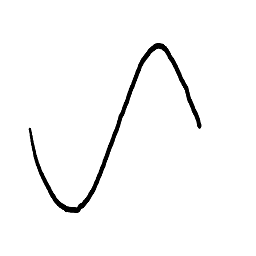
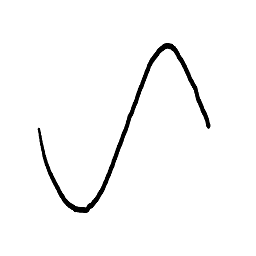
input plot

Changed region(s): [[0.0938, 0.1562, 0.8438, 0.8438]]

diff --git a/index.html b/index.html
@@ -1,3 +1,4 @@
+<!-- LEARNING CONTROL SYSTEMS ENGINEERING WITH INTERACTIVE VISUALIZATION. -->
 <!DOCTYPE html>
 <html lang="en">
 <head>
@@ -5,17 +6,23 @@
     <meta http-equiv="X-UA-Compatible" content="IE=edge">
     <meta name="viewport" content="width=device-width, initial-scale=1.0">
     <title>Regelungstechnik</title>
+    <!-- Import Google Fonts (Roboto). -->
     <link rel="preconnect" href="https://fonts.gstatic.com">
     <link href="https://fonts.googleapis.com/css2?family=Roboto:ital,wght@0,300;0,400;0,700;1,300;1,400;1,700&display=swap" rel="stylesheet">
-    <link rel="stylesheet" href="css/styles.css">
+    <!-- Import our css-stylesheets. -->
+    <link rel="stylesheet" href="css/basic_styles.css">
+    <link rel="stylesheet" href="css/control_loop_styles.css">
 </head>
 
+<!-- Create an SVG-drawing-area for the control loop arrows. -->
 <svg class="background_svg_draw_area" xmlns="http://www.w3.org/2000/svg">
+    <!-- Define an arrow head for the control loop arrows. -->
     <defs>
         <marker id="arrowhead" markerWidth="10" markerHeight="7" refX="0" refY="3.5" orient="auto">
             <polygon points="0 0, 10 3.5, 0 7" />
         </marker>
     </defs>
+    <!-- Create the line elements. They paths will be defined using javascript. -->
     <line id="line_input_to_controller"></line>
     <line id="line_controller_to_system"></line>
     <line id="line_system_to_output"></line>
@@ -25,20 +32,28 @@
 
 <body>
     <h1>Learning Control Systems Engineering with Interactive Visualization</h1>
+    <!-- Create a control loop that contains three D3-charts and the basic control loop elements. -->
     <div class="control_loop">
+        <!-- Three D3 charts on top of the control loop. -->
         <div class="control_loop_plots">
             <div class="control_loop_plot" id="input_plot"></div>
             <div class="control_loop_plot" id="control_plot"></div>
             <div class="control_loop_plot" id="output_plot"></div>
         </div>
+        <!-- Control loop elements in the top row (input, controller, system, output). -->
         <div class="control_loop_top_row">
-            <!-- Eingang. -->
+            <!-- Input. -->
+            <!-- Choose between different input functions (step, ...). -->
             <div class="control_loop_element" id="input_variable">
+                <!-- Every control loop element is divided into a top and a bottom row. -->
+                <!-- The top row contains the element name and two buttons. -->
+                <!-- The bottom row contains elements to select the value of the element. -->
                 <div class="control_loop_element_top_row">
                     <b class="element_description">Sollwert</b>
                     <button class="expand_button">+</button>
                     <button class="information_button">i</button>
                 </div>
+                <!-- The input element has a dropdown and an image that shows the input function as a symbol. -->
                 <div class="control_loop_element_bottom_row">
                     <div class="element_value">
                         <select class="control_loop_dropdown" id="input_selection">
@@ -52,7 +67,8 @@
                     </div>
                 </div>
             </div>
-            <!-- Regler. -->
+            <!-- Controller. -->
+            <!-- Choose between different controller types (P, I, D, PID, ...). -->
             <div class="control_loop_element" id="controller">
                 <div class="control_loop_element_top_row">
                     <b class="element_description">Regler</b>
@@ -71,6 +87,8 @@
                         </select>
                     </div>
                     <div class="element_visualization">
+                        <!-- Depending on the chosen controller type some range sliders will appear (using javascript). -->
+                        <!-- The user can change the controller constants. -->
                         <div class="range_slider_box" id="controller_range_slider_box">
                             <div class="range_slider">
                                 <input type="range" id="range_k" min="0" max="100" value="10">
@@ -80,7 +98,8 @@
                     </div>
                 </div>
             </div>
-            <!-- Regelstrecke. -->
+            <!-- Controlled system. -->
+            <!-- Choose between different system types (PT1, PT2, ...). -->
             <div class="control_loop_element" id="controlled_system">
                 <div class="control_loop_element_top_row">
                     <b class="element_description">Regelstrecke</b>
@@ -96,6 +115,7 @@
                         </select>
                     </div>
                     <div class="element_visualization">
+                        <!-- Just like the controller element the system element allows to change some constants. -->
                         <div class="range_slider_box" id="system_range_slider_box">
                             <div class="range_slider">
                                 <input type="range" id="range_k" min="0" max="100" value="10">
@@ -105,7 +125,7 @@
                     </div>
                 </div>
             </div>
-            <!-- Ausgang. -->
+            <!-- Output. -->
             <div class="control_loop_element" id="output_variable">
                 <div class="control_loop_element_top_row">
                     <b class="element_description">Regelgröße</b>
@@ -116,8 +136,9 @@
                 </div>
             </div>
         </div>
+        <!-- The bottom row of the control loop contains the measuring element. -->
         <div class="control_loop_bottom_row">
-            <!-- Messeinheit. -->
+            <!-- Measuring Element. -->
             <div class="control_loop_element" id="measuring_element">
                 <div class="control_loop_element_top_row">
                     <b class="element_description">Messglied</b>
@@ -145,14 +166,18 @@
     </div>   
 </body>
 
+<!-- Import Javascript. -->
+<!-- Import jquery. -->
 <script
     src="https://code.jquery.com/jquery-3.6.0.min.js"
     integrity="sha256-/xUj+3OJU5yExlq6GSYGSHk7tPXikynS7ogEvDej/m4="
     crossorigin="anonymous">
 </script>
+<!-- Import D3 for the charts. -->
 <script 
     src="https://d3js.org/d3.v6.min.js">
 </script>
+<!-- Import some own javascript files. -->
 <script 
     src="js/functions.js">
 </script>

diff --git a/js/functions.js b/js/functions.js
@@ -1,6 +1,8 @@
 // General constants.
 const control_loop_element_border_radius = 10;
 const arrow_width = 10;
+const time_max = 10;  // Seconds.
+const time_step = 0.1; 
 
 // This function draws a connecting line with an arrow between two elements.
 function draw_arrow (from, to, line_id) {
@@ -61,59 +63,75 @@ function draw_control_loop_arrows() {
 }
 
 draw_control_loop_arrows();
-window.onresize = draw_control_loop_arrows;
+window.addEventListener('resize', function(event) {
+  draw_control_loop_arrows();
+  plot_input_function();
+}, true);
 
 
-
-
-// set the dimensions and margins of the graph
-let rect = document.querySelector('.control_loop_plot').getBoundingClientRect()
-
-var margin = {top: 50, right: 50, bottom: 50, left: 50},
+// This function draws the input plot.
+function plot_input_function() {
+  // Get the div-element.
+  let div_svg = d3.select('#input_plot');
+  // Clear everything that is currently inside the div-element.
+  div_svg.node().innerHTML = '';
+  // Get the dimension of the div-element.
+  let rect = div_svg.node().getBoundingClientRect()
+  // Set the margin, width and height of the plot (needed for the axis).
+  var margin = {top: 10, right: 30, bottom: 30, left: 60},
     width = rect.width - margin.left - margin.right,
     height = rect.height - margin.top - margin.bottom;
+  // Create the svg-element and add the x- and y-axis.
+  let plot_svg = div_svg
+    .append("svg")
+      .attr("width", width + margin.left + margin.right)
+      .attr("height", height + margin.top + margin.bottom)
+    .append("g")
+      .attr("transform",
+            "translate(" + margin.left + "," + margin.top + ")");
+  // x-Axis.
+  let x_axis = d3.scaleLinear()
+    .domain([0, time_max])      // Value-range.
+    .range([0, width]);   // Pixel-range.
+  plot_svg.append("g")
+    .attr("transform", "translate(0," + height/2 + ")")
+    .call(d3.axisBottom(x_axis));
 
-// append the svg object to the body of the page
-var sVg = d3.selectAll(".control_loop_plot")
-  .append("svg")
-    .attr("width", width + margin.left + margin.right)
-    .attr("height", height + margin.top + margin.bottom)
-    .classed("svg_content_responsive", true)
-    //.attr("preserveAspectRatio", "xMidYMid meet")
-    //.attr("viewBox", "0 0 " + width + " " + height)
-  // translate this svg element to leave some margin.
-  .append("g")
-  .attr("transform", "translate(" + margin.left + "," + margin.top + ")");
+  // y-Axis.
+  var y_axis = d3.scaleLinear()
+    .domain([-1.5, 1.5])
+    .range([height, 0]);
+  plot_svg.append("g")
+    .call(d3.axisLeft(y_axis));
 
-// X scale and Axis
-var x = d3.scaleLinear()
-    .domain([0, 100])         // This is the min and the max of the data: 0 to 100 if percentages
-    .range([0, width]);       // This is the corresponding value I want in Pixel
-sVg
-  .append('g')
-  .attr("transform", "translate(0," + height + ")")
-  .call(d3.axisBottom(x));
+  // Get the input data (depending on the chosen input function).
+  let input_selection = document.querySelector('#input_selection');
+  let data = [];
+  if (input_selection.value == "sprung") {
+    data = [{x: -1, y:0}, {x: 0, y:0}, {x: 0, y:1}, {x: time_max, y:1}]
+  }
+  else if (input_selection.value == "impuls") {
+    data = [{x: -1, y:0}, {x: 0, y:0}, {x: 0, y:1}, {x: time_step, y:1}, {x: time_step, y:0}, {x: time_max, y:0}]
+  }
+  else if (input_selection.value == "sinus") {
+    for (let t = 0; t <= time_max; t = t + time_step) {
+      data.push({x: t, y: Math.sin(t)});
+    }
+  }
 
-// X scale and Axis
-var y = d3.scaleLinear()
-    .domain([0, 10])         // This is the min and the max of the data: 0 to 100 if percentages
-    .range([height, 0]);       // This is the corresponding value I want in Pixel
-sVg
-  .append('g')
-  .call(d3.axisLeft(y));
+  // Add the line.
+  plot_svg
+    .append("path")
+      .datum(data)
+      .attr("fill", "none")
+      .attr("stroke", "steelblue")
+      .attr("stroke-width", 3)
+      .attr("d", d3.line()
+        .x(function(d) { return x_axis(d.x) })
+        .y(function(d) { return y_axis(d.y) }));
+}
 
-// Create data
-var data = [ {x:10, y:20}, {x:40, y:90}, {x:80, y:50} ]
-
-// Add 3 dots for 0, 50 and 100%
-sVg
-  .selectAll("whatever")
-  .data(data)
-  .enter()
-  .append("circle")
-    .attr("cx", function(d){ return x(d.x) })
-    .attr("cy", function(d){ return y(d.y) })
-    .attr("r", 7)
+plot_input_function();
 
 
 // Input visualization. Change the image inside the input_control_loop_element depending on the input-function.
@@ -122,6 +140,8 @@ input_selection.addEventListener('change', (event) => {
   // Change the image.
   let input_visualization_image = document.querySelector('#input_visualization');
   input_visualization_image.src = 'img/' + input_selection.value + '.png';
+  // Redraw the input plot.
+  plot_input_function();
 });
 
 // Controller range slider, system range slider and measuring element range slider. 

diff --git a/css/control_loop_styles.css b/css/control_loop_styles.css
@@ -1,8 +1,8 @@
-html {
-    font-family: 'Roboto', sans-serif;
-    background-color: #ffffff;
-}
+/* This stylesheet contains css informations about the control loop visualization. */
 
+/* ######################################################################## */
+/*                          Control loop in general.                        */
+/* ######################################################################## */
 
 .background_svg_draw_area {
     position: absolute;
@@ -14,18 +14,17 @@ html {
     z-index: 0;
 }
 
-h1 {
-    text-align: center;
-    font-style: italic;
-    text-decoration: underline;
-}
-
 .control_loop {
     display: flex;
     flex-direction: column;
     flex-wrap: wrap;
     gap: 50px;
 }
+
+
+/* ######################################################################## */
+/*                 D3-charts on top of the control loop.                    */
+/* ######################################################################## */
 
 .control_loop_plots {
     position: relative;
@@ -39,7 +38,7 @@ h1 {
     width: 100%;
     height: 320px;
     vertical-align: top;
-    overflow: hidden;
+    /* overflow: hidden; */
 }
 
 .svg_content_responsive {
@@ -48,6 +47,11 @@ h1 {
     top: 10px;
     left: 0;
 }
+
+
+/* ######################################################################## */
+/*                          Control loop layout.                            */
+/* ######################################################################## */
 
 .control_loop_top_row {
     display: flex;

diff --git a/css/basic_styles.css b/css/basic_styles.css
@@ -1,0 +1,12 @@
+/* This stylesheet contains css informations about basic elements like html and h1. */
+
+html {
+    font-family: 'Roboto', sans-serif;
+    background-color: #ffffff;
+}
+
+h1 {
+    text-align: center;
+    font-style: italic;
+    text-decoration: underline;
+}
